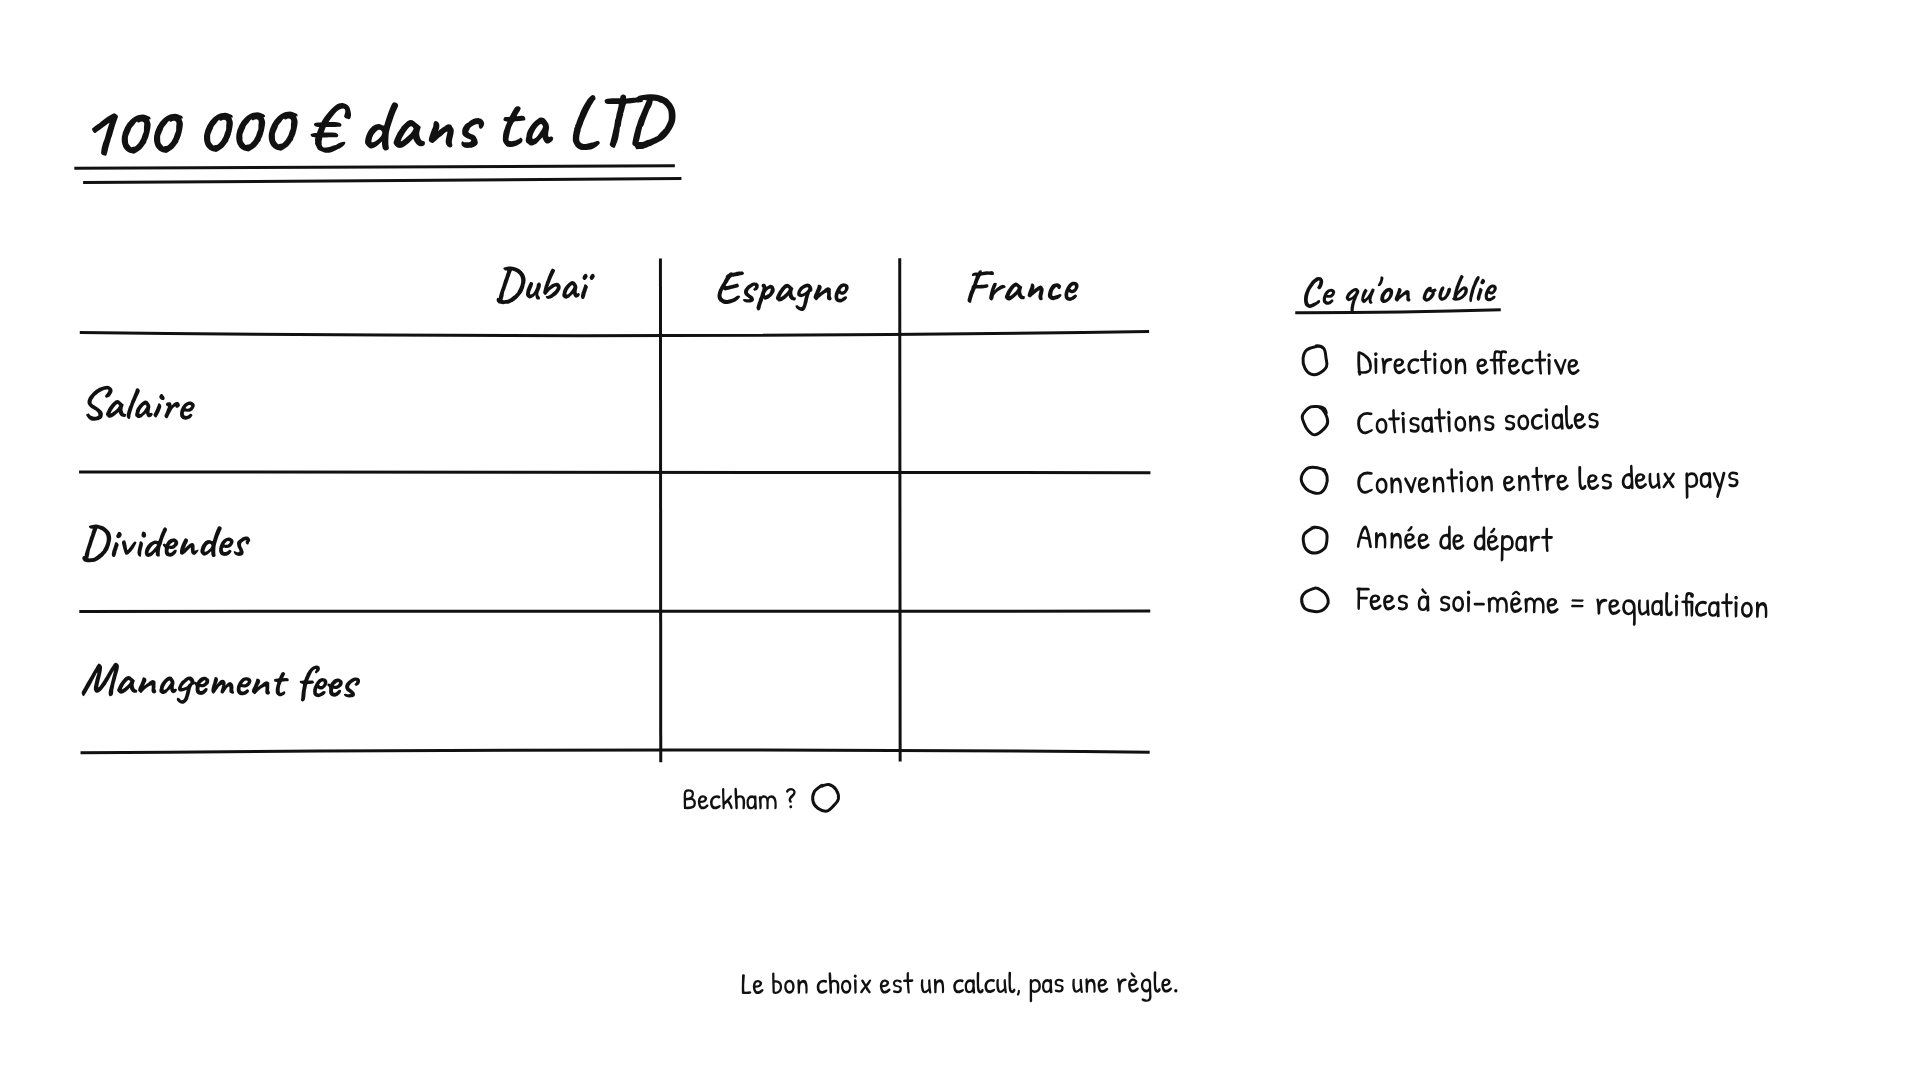
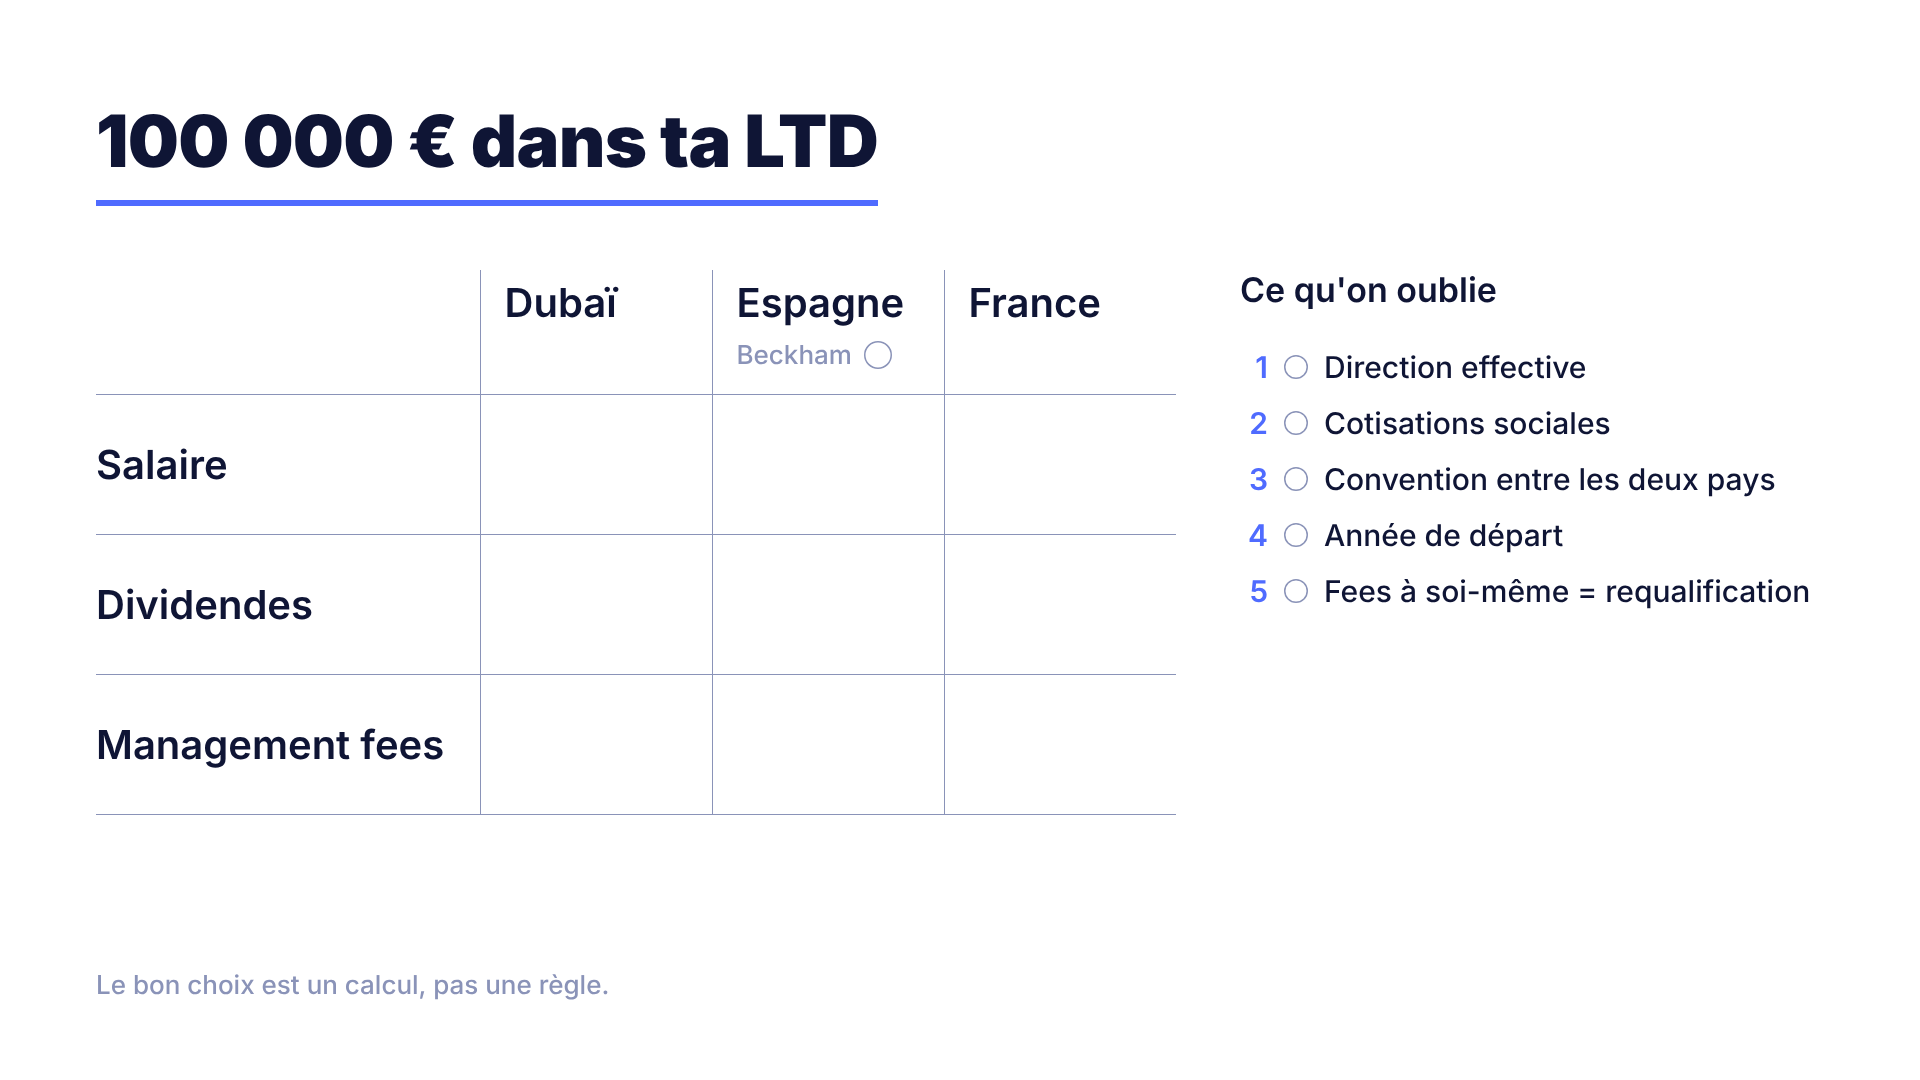
Refait le schéma 16:9 en charte stricte (HTML + CSS, Inter)
- schema/index.html : grille CSS, Inter 900 / 600 / 500, blanc, navy,
  indigo (filet du titre et numéros), gris (filets et cercles) ; tableau
  épuré 3 x 3 à cellules vides de 232 x 140 px, mention Beckham avec
  cercle 28 px, liste « Ce qu'on oublie » numérotée avec cercles SVG
  24 px à 1,5 px, phrase du bas en gris
- schema/export.mjs : schema.png et schema@2x.png, vérifications
  (couleurs du DOM, tailles, marges, chevauchements, cellules vides,
  cercles, filet du titre, proportion de blanc)
- rough.min.js retiré du dossier schema, README mis à jour

Claude-Session: https://claude.ai/code/session_01Mq421MbfWFaqKUmPJWpw7Q

diff --git a/schema/index.html b/schema/index.html
@@ -5,152 +5,109 @@
 <title>Schéma LTD</title>
 <link rel="preconnect" href="https://fonts.googleapis.com">
 <link rel="preconnect" href="https://fonts.gstatic.com" crossorigin>
-<link rel="stylesheet" href="https://fonts.googleapis.com/css2?family=Caveat:wght@700&family=Patrick+Hand&display=swap">
+<link rel="stylesheet" href="https://fonts.googleapis.com/css2?family=Inter:wght@500;600;900&display=swap">
 <style>
-  html, body { margin: 0; padding: 0; background: #FFFFFF; }
-  body { width: 1920px; height: 1080px; overflow: hidden; }
-  svg { display: block; }
-  svg text { white-space: pre; }
+  /* ---------- charte : 4 valeurs, rien d'autre ---------- */
+  :root {
+    --paper: #FFFFFF;
+    --navy: #0F1535;
+    --indigo: #4F6BFF;
+    --grey: #8A93B8;
+    --m: 96px;          /* marges */
+    --bottom-free: 80px; /* zone sous-titres, rien dedans */
+  }
+  html, body { margin: 0; padding: 0; background: var(--paper); }
+  body {
+    width: 1920px; height: 1080px; overflow: hidden; position: relative;
+    font-family: Inter, sans-serif; color: var(--navy); font-weight: 500;
+    -webkit-font-smoothing: antialiased;
+  }
+
+  /* ---------- grille de page : titre / (tableau | liste) / pied ---------- */
+  .page {
+    position: absolute; inset: var(--m) var(--m) var(--bottom-free) var(--m);
+    display: grid;
+    grid-template-columns: 1080px 1fr;   /* tableau a largeur fixe, la liste prend le reste */
+    grid-template-rows: auto 1fr auto;
+    grid-template-areas: "title title" "table list" "footer footer";
+    column-gap: 64px;
+  }
+
+  /* 1. titre, filet indigo de la largeur du titre */
+  .title { grid-area: title; justify-self: start; }
+  .title h1 {
+    margin: 0; font-size: 72px; font-weight: 900; line-height: 1.25; letter-spacing: -0.01em;
+  }
+  .title .rule { height: 6px; background: var(--indigo); margin-top: 14px; }
+
+  /* 2. tableau epure : filets 1 px, cellules vides */
+  .table { grid-area: table; align-self: start; margin-top: 64px; }
+  table { border-collapse: collapse; table-layout: fixed; width: 1080px; }
+  th, td { box-sizing: border-box; padding: 0; text-align: left; vertical-align: middle; font-weight: 600; font-size: 40px; }
+  thead th { height: 124px; vertical-align: top; padding-top: 8px; border-bottom: 1px solid var(--grey); }
+  thead th.corner { width: 384px; }
+  thead th.col { width: 232px; padding-left: 24px; border-left: 1px solid var(--grey); }
+  tbody th { height: 140px; border-bottom: 1px solid var(--grey); padding-right: 24px; white-space: nowrap; }
+  tbody td { height: 140px; border-bottom: 1px solid var(--grey); border-left: 1px solid var(--grey); }
+  .note { display: flex; align-items: center; gap: 12px; margin-top: 12px; font-size: 26px; font-weight: 500; color: var(--grey); }
+  .circle { display: block; flex: none; }
+  .circle circle { fill: none; stroke: var(--grey); stroke-width: 1.5; }
+
+  /* 3. liste "Ce qu'on oublie" : numero indigo, cercle a cocher, texte */
+  .list { grid-area: list; align-self: start; justify-self: start; margin-top: 64px; padding-bottom: 120px; }
+  .list h2 { margin: 0 0 28px; font-size: 34px; font-weight: 600; line-height: 1.2; }
+  .list ol { list-style: none; margin: 0; padding: 0; }
+  .list li { display: flex; align-items: center; gap: 16px; height: 56px; font-size: 30px; font-weight: 500; white-space: nowrap; }
+  .list .num { color: var(--indigo); font-weight: 600; width: 28px; text-align: right; }
+
+  /* 4. pied de page, bas gauche */
+  .footer { grid-area: footer; align-self: end; font-size: 26px; font-weight: 500; color: var(--grey); line-height: 1.2; }
 </style>
-<script src="rough.min.js"></script>
 </head>
 <body>
-<svg id="stage" xmlns="http://www.w3.org/2000/svg" viewBox="0 0 1920 1080" width="1920" height="1080"></svg>
+<div class="page">
+  <header class="title">
+    <h1 data-text>100 000 € dans ta LTD</h1>
+    <div class="rule" data-rule></div>
+  </header>
+
+  <section class="table">
+    <table>
+      <thead>
+        <tr>
+          <th class="corner"></th>
+          <th class="col"><span data-text>Dubaï</span></th>
+          <th class="col"><span data-text>Espagne</span>
+            <div class="note"><span data-text>Beckham</span><svg class="circle" width="28" height="28" viewBox="0 0 28 28" data-circle="note"><circle cx="14" cy="14" r="13.25"/></svg></div></th>
+          <th class="col"><span data-text>France</span></th>
+        </tr>
+      </thead>
+      <tbody>
+        <tr><th><span data-text>Salaire</span></th><td data-cell="1-1"></td><td data-cell="1-2"></td><td data-cell="1-3"></td></tr>
+        <tr><th><span data-text>Dividendes</span></th><td data-cell="2-1"></td><td data-cell="2-2"></td><td data-cell="2-3"></td></tr>
+        <tr><th><span data-text>Management fees</span></th><td data-cell="3-1"></td><td data-cell="3-2"></td><td data-cell="3-3"></td></tr>
+      </tbody>
+    </table>
+  </section>
+
+  <aside class="list">
+    <h2 data-text>Ce qu'on oublie</h2>
+    <ol>
+      <li><span class="num" data-text>1</span><svg class="circle" width="24" height="24" viewBox="0 0 24 24" data-circle="list"><circle cx="12" cy="12" r="11.25"/></svg><span data-text>Direction effective</span></li>
+      <li><span class="num" data-text>2</span><svg class="circle" width="24" height="24" viewBox="0 0 24 24" data-circle="list"><circle cx="12" cy="12" r="11.25"/></svg><span data-text>Cotisations sociales</span></li>
+      <li><span class="num" data-text>3</span><svg class="circle" width="24" height="24" viewBox="0 0 24 24" data-circle="list"><circle cx="12" cy="12" r="11.25"/></svg><span data-text>Convention entre les deux pays</span></li>
+      <li><span class="num" data-text>4</span><svg class="circle" width="24" height="24" viewBox="0 0 24 24" data-circle="list"><circle cx="12" cy="12" r="11.25"/></svg><span data-text>Année de départ</span></li>
+      <li><span class="num" data-text>5</span><svg class="circle" width="24" height="24" viewBox="0 0 24 24" data-circle="list"><circle cx="12" cy="12" r="11.25"/></svg><span data-text>Fees à soi-même = requalification</span></li>
+    </ol>
+  </aside>
+
+  <footer class="footer"><span data-text>Le bon choix est un calcul, pas une règle.</span></footer>
+</div>
 <script>
-/* =========================================================================
-   DONNEES : tout le contenu vit ici. Changer un texte = changer cet objet.
-   ========================================================================= */
-const schema = {
-  title: '100 000 € dans ta LTD',
-  table: {
-    rows: ['Salaire', 'Dividendes', 'Management fees'],
-    cols: ['Dubaï', 'Espagne', 'France'],
-    note: { under: 'Espagne', text: 'Beckham ?' },
-  },
-  list: {
-    title: 'Ce qu\'on oublie',
-    items: ['Direction effective', 'Cotisations sociales', 'Convention entre les deux pays', 'Année de départ', 'Fees à soi-même = requalification'],
-  },
-  footer: 'Le bon choix est un calcul, pas une règle.',
-};
-
-/* =========================================================================
-   STYLE : une encre, deux polices, des tailles.
-   ========================================================================= */
-const INK = '#111111';
-const FONT = { title: 'Caveat, cursive', body: '"Patrick Hand", cursive' };   /* changer la police : ici */
-const FS = { title: 72, table: 46, listTitle: 40, list: 34, small: 30 };
-const ROUGH = { roughness: 1.2, bowing: 1, strokeWidth: 3, stroke: INK, fill: 'none', disableMultiStroke: true };
-const G = {
-  W: 1920, H: 1080, M: 80, BOTTOM_FREE: 60,
-  title: { x: 80, y: 150 },
-  table: { xLabel: 80, xGrid: 420, colW: 240, yHeader: 300, yGrid: 332, rowH: 140, noteDy: 56 },
-  list: { x: 1300, yTitle: 300, yFirst: 372, gap: 60, circleR: 13, textDx: 56 },
-  footer: { x: 960, y: 996 },
-  wobble: { deg: 1.5, dy: 3 },
-};
-const CAP = 0.7;
-
-/* Hasard deterministe : une seed par element, derivee de son id. */
-function hash(str) { let h = 2166136261; for (const c of str) { h ^= c.charCodeAt(0); h = Math.imul(h, 16777619); } return h >>> 0; }
-function rng(seed) { let a = seed; return () => { a |= 0; a = a + 0x6D2B79F5 | 0; let t = Math.imul(a ^ a >>> 15, 1 | a); t = t + Math.imul(t ^ t >>> 7, 61 | t) ^ t; return ((t ^ t >>> 14) >>> 0) / 4294967296; }; }
-const seedOf = (id) => (hash(id) % 2147483646) + 1;
-
-const svg = document.getElementById('stage');
-const NS = 'http://www.w3.org/2000/svg';
-const rc = rough.svg(svg);
-const measurer = document.createElementNS(NS, 'text');
-measurer.setAttribute('visibility', 'hidden');
-svg.appendChild(measurer);
-function width(text, size, font, weight) {
-  measurer.setAttribute('font-size', size); measurer.setAttribute('font-family', font); measurer.setAttribute('font-weight', weight);
-  measurer.textContent = text;
-  return measurer.getComputedTextLength();
-}
-
-/* =========================================================================
-   LAYOUT : liste d'elements { id, kind, ...}. kind = text | stroke | circle.
-   ========================================================================= */
-function layout(s) {
-  const n = [];
-  const text = (id, str, x, y, size, font, weight, anchor = 'start') => {
-    const r = rng(seedOf(id)), w = width(str, size, font, weight);
-    const rot = Math.round((r() * 2 - 1) * G.wobble.deg * 100) / 100, dy = Math.round((r() * 2 - 1) * G.wobble.dy * 10) / 10;
-    const cx = anchor === 'start' ? x + w / 2 : anchor === 'end' ? x - w / 2 : x;   /* pivot : centre du texte */
-    n.push({ id, kind: 'text', text: str, x, y: y + dy, size, font, weight, anchor, rot, pivot: [Math.round(cx * 100) / 100, y + dy], w });
-    return w;
-  };
-  const stroke = (id, d, role) => n.push({ id, kind: 'stroke', d, role });
-  const circle = (id, cx, cy, r) => n.push({ id, kind: 'circle', cx, cy, r });
-
-  /* 1. titre souligne deux fois */
-  const t = G.title, tw = text('title', s.title, t.x, t.y, FS.title, FONT.title, 700);
-  stroke('title-underline1', `M ${t.x - 6} ${t.y + 18} L ${t.x + tw + 6} ${t.y + 15}`, 'underline');
-  stroke('title-underline2', `M ${t.x + 4} ${t.y + 32} L ${t.x + tw + 12} ${t.y + 29}`, 'underline');
-
-  /* 2. tableau : etiquettes, en-tetes, lignes ouvertes (pas de cadre) */
-  const T = G.table, nC = s.table.cols.length, nR = s.table.rows.length;
-  const xEnd = T.xGrid + nC * T.colW, yEnd = T.yGrid + nR * T.rowH;
-  s.table.cols.forEach((c, i) => text('col' + (i + 1), c, T.xGrid + T.colW * (i + 0.5), T.yHeader, FS.table, FONT.title, 700, 'middle'));
-  s.table.rows.forEach((r, i) => text('row' + (i + 1), r, T.xLabel, T.yGrid + T.rowH * (i + 0.5) + FS.table * CAP / 2, FS.table, FONT.title, 700));
-  for (let i = 0; i <= nR; i++) stroke('hline' + i, `M ${T.xLabel} ${T.yGrid + T.rowH * i} L ${xEnd + 10} ${T.yGrid + T.rowH * i}`, 'grid');
-  for (let i = 1; i < nC; i++) stroke('vline' + i, `M ${T.xGrid + T.colW * i} ${T.yHeader - FS.table * CAP - 10} L ${T.xGrid + T.colW * i} ${yEnd + 10}`, 'grid');
-  const cells = [];
-  for (let r = 0; r < nR; r++) for (let c = 0; c < nC; c++)
-    cells.push({ id: `cell-${r + 1}-${c + 1}`, x: T.xGrid + T.colW * c, y: T.yGrid + T.rowH * r, w: T.colW, h: T.rowH });
-  /* petite mention sous une colonne, avec un cercle vide a cocher */
-  const ci = s.table.cols.indexOf(s.table.note.under), nx = T.xGrid + T.colW * ci + 22, ny = yEnd + T.noteDy;
-  const nw = text('note', s.table.note.text, nx, ny, FS.small, FONT.body, 400);
-  circle('note-circle', nx + nw + 30, ny - FS.small * CAP / 2, 12);
-
-  /* 3. liste "Ce qu'on oublie" : titre souligne, cercles vides a cocher */
-  const L = G.list, lw = text('list-title', s.list.title, L.x, L.yTitle, FS.listTitle, FONT.title, 700);
-  stroke('list-underline', `M ${L.x - 4} ${L.yTitle + 12} L ${L.x + lw + 6} ${L.yTitle + 10}`, 'underline');
-  s.list.items.forEach((item, i) => {
-    const y = L.yFirst + L.gap * i;
-    circle('list-circle' + (i + 1), L.x + L.circleR + 2, y - FS.list * CAP / 2, L.circleR);
-    text('list-item' + (i + 1), item, L.x + L.textDx, y, FS.list, FONT.body, 400);
-  });
-
-  /* 4. phrase du bas, discrete */
-  text('footer', s.footer, G.footer.x, G.footer.y, FS.small, FONT.body, 400, 'middle');
-  return { nodes: n, cells };
-}
-
-/* =========================================================================
-   RENDU : un element SVG par noeud, seed fixee par noeud.
-   ========================================================================= */
-function render(nodes) {
-  for (const nd of nodes) {
-    let el;
-    const opts = { ...ROUGH, seed: seedOf(nd.id) };
-    if (nd.kind === 'text') {
-      el = document.createElementNS(NS, 'text');
-      el.setAttribute('x', nd.x); el.setAttribute('y', nd.y);
-      el.setAttribute('font-size', nd.size); el.setAttribute('font-family', nd.font); el.setAttribute('font-weight', nd.weight);
-      el.setAttribute('fill', INK); el.setAttribute('text-anchor', nd.anchor);
-      el.setAttribute('transform', `rotate(${nd.rot} ${nd.pivot[0]} ${nd.pivot[1]})`);
-      el.textContent = nd.text;
-    } else if (nd.kind === 'circle') {
-      el = rc.circle(nd.cx, nd.cy, nd.r * 2, opts);
-    } else {
-      el = rc.path(nd.d, opts);
-      if (nd.role) el.setAttribute('data-role', nd.role);
-    }
-    el.setAttribute('data-id', nd.id); el.setAttribute('data-kind', nd.kind);
-    svg.appendChild(el);
-  }
-}
-
-document.fonts.ready
-  .then(() => Promise.all([document.fonts.load('700 72px Caveat'), document.fonts.load('400 34px "Patrick Hand"')]).catch(() => {}))
-  .then(() => {
-    window.__fonts = { caveat: document.fonts.check('700 72px Caveat'), patrick: document.fonts.check('400 34px "Patrick Hand"') };
-    const { nodes, cells } = layout(schema);
-    render(nodes);
-    window.__cells = cells;
-    window.__ready = true;
-  });
+  /* signale a l'export que les polices sont pretes */
+  document.fonts.ready
+    .then(() => Promise.all([document.fonts.load('900 72px Inter'), document.fonts.load('600 40px Inter'), document.fonts.load('500 30px Inter')]).catch(() => {}))
+    .then(() => { window.__inter = document.fonts.check('900 72px Inter') && document.fonts.check('500 30px Inter'); window.__ready = true; });
 </script>
 </body>
 </html>

diff --git a/schema/README.md b/schema/README.md
@@ -1,10 +1,10 @@
-# Schéma 16:9 à annoter à la main
+# Schéma 16:9 à annoter à la main (charte Inter, navy / indigo / gris)
 
-- `index.html` : page autonome ; le schéma est un SVG généré depuis l'objet `schema`, traits rough.js (`rough.min.js` copié en local), textes en Caveat 700 et Patrick Hand (Google Fonts).
+- `index.html` : page autonome HTML + CSS, mise en page en grille, police Inter (Google Fonts, repli sur une Inter installée), aucune image externe, aucun framework.
 - Ouvrir `index.html` dans un navigateur pour voir le rendu en 1920 × 1080.
 - Export PNG : `npm i playwright` (une fois), puis `node export.mjs` dans ce dossier.
 - Résultat : `schema.png` (1920 × 1080) et `schema@2x.png` (3840 × 2160), fond blanc opaque.
-- L'export vérifie et logue : polices chargées, fond blanc, une seule encre, tiret cadratin, tailles ≥ 30 px, marges, chevauchements (encre réelle), 60 px du bas vides, 9 cellules vides, 5 cercles, double soulignement, proportion de blanc (≥ 35 %).
-- Changer un texte : modifier la chaîne dans l'objet `schema` en haut de `index.html`, puis relancer `node export.mjs`.
-- Changer la police : la constante `FONT` et la ligne `<link>` Google Fonts en haut de `index.html`.
-- Tailles, encre, traits, positions : les constantes `FS`, `INK`, `ROUGH` et `G` ; chaque élément a sa seed, le rendu est identique à chaque export.
+- L'export vérifie et logue : police Inter, tiret cadratin, liste des couleurs du DOM (blanc, navy, indigo, gris), tailles ≥ 26 px, marges, chevauchements, 80 px du bas vides, 9 cellules vides, 5 cercles, filet indigo du titre, proportion de blanc (≥ 40 %).
+- Changer un texte : modifier le texte directement dans `index.html` (chaque texte porte l'attribut `data-text`), puis relancer `node export.mjs`.
+- Changer la police : la ligne `<link>` Google Fonts et `font-family` sur `body` dans `index.html`.
+- Couleurs et marges : les variables CSS `:root` en tête de `index.html` ; tailles de cellules : `th.corner` et `th.col`.
